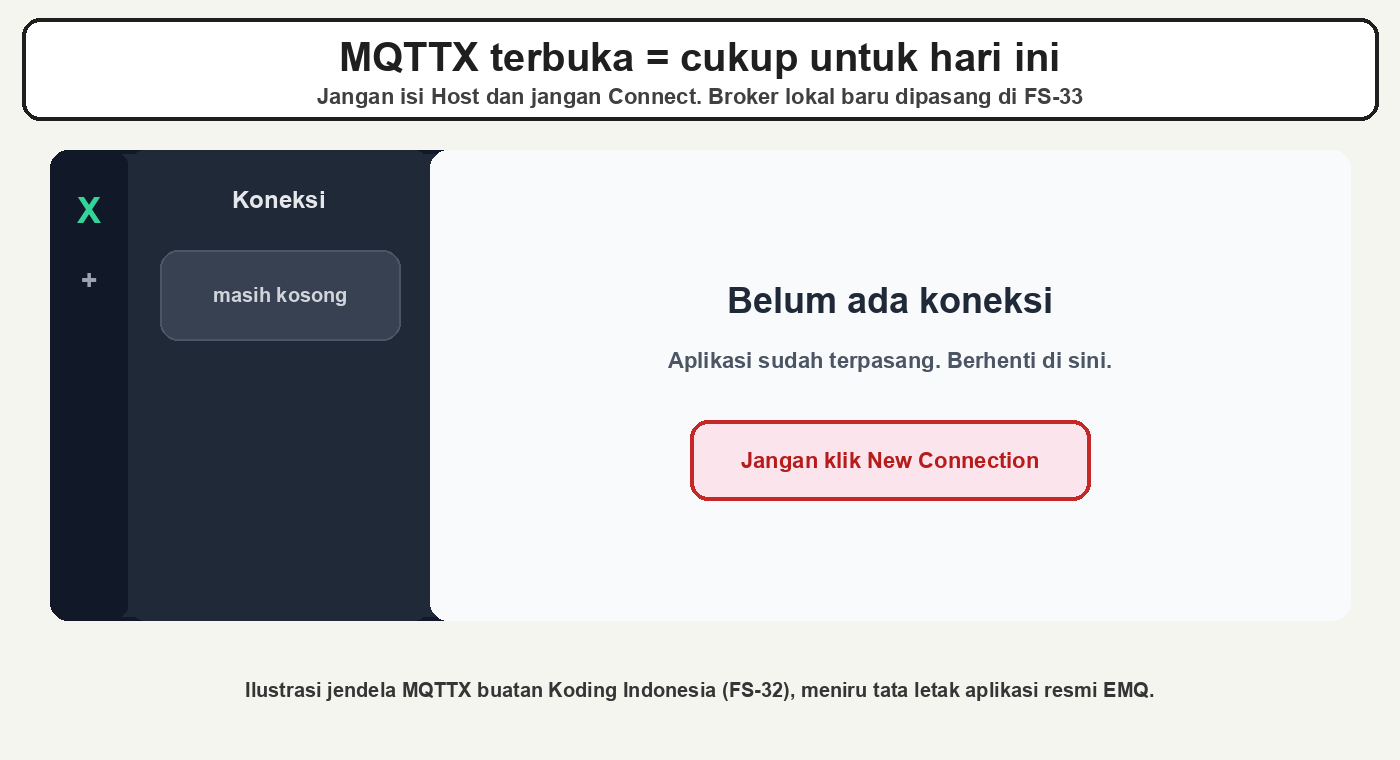
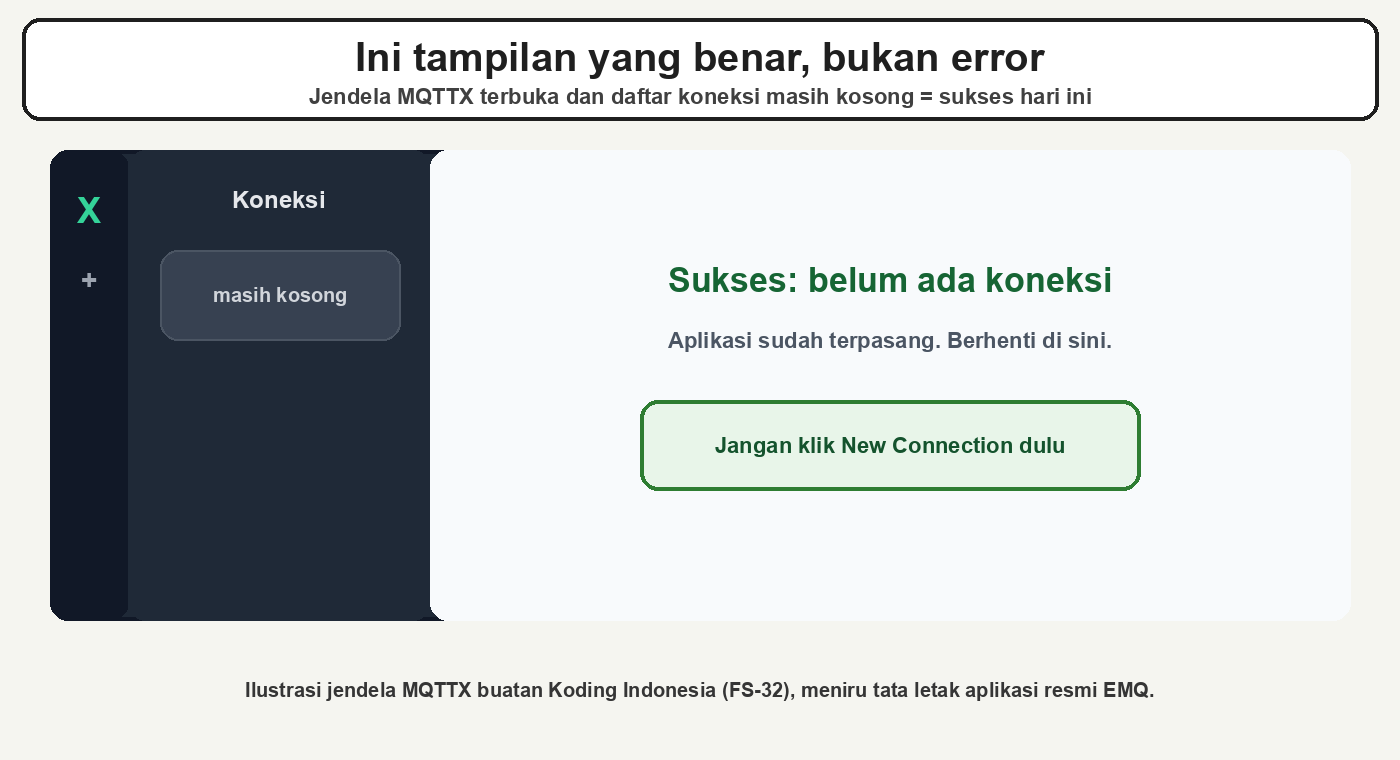
fix(fsiot): clarify FS-32 images for beginners
MQTTX empty state is labelled as success, Commons labels are in Indonesian, and the official downloads page is cited so first-time readers are not looking at an error screen or Portuguese-only diagram.

Changed region(s): [[0.215, 0.0303, 0.7986, 0.1513], [0.4607, 0.5145, 0.8293, 0.6658], [0.4607, 0.3329, 0.7986, 0.4842]]

diff --git a/database/seeders/Article102Seeder.php b/database/seeders/Article102Seeder.php
@@ -55,10 +55,11 @@ class Article102Seeder extends Seeder
             if (is_file($source)) {
                 $destination = "articles/covers/fs32-cover-mqtt.{$extension}";
                 Storage::disk('public')->put($destination, file_get_contents($source));
-                $article->update(['cover_image' => $destination]);
-                break;
             }
         }
+        $article->update([
+            'cover_image' => 'https://kodingindonesia.com/images/fsiot/fs32-cover-mqtt.webp',
+        ]);
     }
 
     private function figure(string $file, string $alt, string $caption): string
@@ -88,9 +89,10 @@ class Article102Seeder extends Seeder
     private function body(): string
     {
         $tools = $this->figure('fs32-tools-order.png', 'Urutan tools: browser, unduh MQTTX, pasang, jangan connect', '<strong>Urutan meja kerja:</strong> pahami konsep di browser → unduh MQTTX dari situs resmi → pasang tanpa terminal → berhenti. Pesan yang sebenarnya baru dikirim saat broker lokal FS-33 siap. Diagram buatan Koding Indonesia (FS-32).');
-        $mqttx = $this->figure('fs32-mqttx-empty.png', 'Ilustrasi jendela MQTTX yang baru dibuka tanpa koneksi', '<strong>Bukti sukses hari ini:</strong> jendela MQTTX terbuka dan daftar koneksi masih kosong. Jangan klik <em>New Connection</em> dan jangan isi Host. Ilustrasi buatan Koding Indonesia (FS-32), meniru tata letak aplikasi resmi <a href="https://mqttx.app/" target="_blank" rel="noopener noreferrer">MQTTX oleh EMQ</a> (Apache License 2.0). Screenshot resmi tidak dipakai utuh karena menampilkan broker publik.');
+        $downloads = $this->figure('fs32-mqttx-downloads.png', 'Halaman unduhan resmi MQTTX Desktop di mqttx.app/downloads', '<strong>Ini halaman yang harus dibuka.</strong> Pilih sistem operasimu, lalu unduh <strong>MQTTX Desktop</strong> (berkas <code>.exe</code> di Windows). Jangan pilih MQTTX CLI, MQTTX Web, atau tautan broker publik di menu situs. Sumber: <a href="https://mqttx.app/downloads" target="_blank" rel="noopener noreferrer">mqttx.app/downloads</a> — EMQ Technologies. Tangkapan layar 13 Agustus 2026. Aplikasi MQTTX berlisensi Apache License 2.0.');
+        $mqttx = $this->figure('fs32-mqttx-empty.png', 'Ilustrasi jendela MQTTX yang baru dibuka tanpa koneksi — tampilan sukses, bukan error', '<strong>Ini tampilan yang benar, bukan error.</strong> Jendela MQTTX terbuka dan daftar koneksi masih kosong = sukses hari ini. Jangan klik <em>New Connection</em> dan jangan isi Host. Ilustrasi buatan Koding Indonesia (FS-32), meniru tata letak aplikasi resmi <a href="https://mqttx.app/" target="_blank" rel="noopener noreferrer">MQTTX oleh EMQ</a> (Apache License 2.0). Screenshot jendela resmi tidak dipakai utuh karena menampilkan broker publik.');
         $roles = $this->figure('fs32-broker-roles.png', 'Peran klien dan broker MQTT', '<strong>Gambar utama — peran MQTT.</strong> ESP32 dan MQTTX adalah klien (<em>client</em>). Broker menjadi perantara pesan. MQTT adalah protokol klien-server dengan pola publish/subscribe. <a href="https://www.oasis-open.org/standard/mqtt-v5-0-os/" target="_blank" rel="noopener noreferrer">Standar MQTT OASIS</a>. Diagram buatan Koding Indonesia (FS-32).');
-        $commons = $this->figure('fs32-mqtt-architecture-cite.png', 'Arsitektur MQTT dari Wikimedia Commons dengan terjemahan Indonesia', '<strong>Gambar pembanding.</strong> Alur yang sama: pengirim → broker → penerima. Label asli berbahasa Portugis; pita bawah adalah terjemahan Indonesia. Ikon awan berarti server perantara, bukan wajib memakai internet publik. Sumber: <a href="https://commons.wikimedia.org/wiki/File:Arquitetura_MQTT_exemplo.png" target="_blank" rel="noopener noreferrer">Arquitetura MQTT exemplo.png</a> karya Ana beloti, Wikimedia Commons, <a href="https://creativecommons.org/licenses/by-sa/4.0/" target="_blank" rel="noopener noreferrer">CC BY-SA 4.0</a>. Diolah Koding Indonesia: pita terjemahan ditambahkan.');
+        $commons = $this->figure('fs32-mqtt-architecture-cite.png', 'Arsitektur MQTT dari Wikimedia Commons dengan label Indonesia', '<strong>Gambar pembanding.</strong> Alur yang sama: pengirim → broker → penerima. Label Indonesia ditambahkan di atas teks Portugis asli agar mudah dibaca. Ikon mobil dan awan berasal dari sumber; lab kita memakai ESP32, MQTTX, dan Mosquitto lokal — bukan internet publik. Sumber: <a href="https://commons.wikimedia.org/wiki/File:Arquitetura_MQTT_exemplo.png" target="_blank" rel="noopener noreferrer">Arquitetura MQTT exemplo.png</a> karya Ana beloti, Wikimedia Commons, <a href="https://creativecommons.org/licenses/by-sa/4.0/" target="_blank" rel="noopener noreferrer">CC BY-SA 4.0</a>. Diolah Koding Indonesia: label Indonesia ditambahkan.');
         $topic = $this->figure('fs32-topic-address.png', 'Empat bagian alamat topic MQTT', '<strong>Topic seperti alamat loker.</strong> Pengirim dan penerima harus menulis teks yang sama persis. Huruf besar dan huruf kecil berbeda. Diagram buatan Koding Indonesia (FS-32).');
         $flow = $this->figure('fs32-pub-sub-flow.png', 'Alur publish dan subscribe melalui broker', '<strong>Skema bantu — satu ke banyak.</strong> Publisher tidak perlu tahu siapa yang menerima; broker meneruskan pesan kepada klien yang berlangganan topic tersebut. Kotak <em>klien lain</em> hanya pengingat bahwa nanti bisa ada penerima tambahan; hari ini tidak perlu. Diagram buatan Koding Indonesia (FS-32).');
         $install = $this->stepsCard([
@@ -129,7 +131,7 @@ class Article102Seeder extends Seeder
 
 <h2>Persiapan — buka tool yang benar dulu</h2>
 HTML
-            .$tools.$install.$mqttx.<<<'HTML'
+            .$tools.$install.$downloads.$mqttx.<<<'HTML'
 <p><strong>Jika pemasangan belum selesai:</strong> tetap baca konsep sampai akhir. FS-33 baru dikerjakan setelah MQTTX siap, karena di sana kita akan melihat pesan yang sebenarnya.</p>
 <p><strong>Tips ponsel:</strong> jika diagram terasa kecil, gunakan fitur perbesar pada browser atau layar. Gambar tidak perlu diketuk sampai memenuhi layar agar teks di sekitarnya tetap terbaca.</p>
 
@@ -138,7 +140,7 @@ HTML
             .$roles.$commons.<<<'HTML'
 <ul>
 <li><strong>Broker:</strong> server perantara yang menerima pesan dan meneruskannya.</li>
-<li><strong>Klien:</strong> perangkat atau aplikasi yang tersambung ke broker. ESP32, MQTTX, dan papan pantau nanti dapat menjadi klien.</li>
+<li><strong>Klien:</strong> perangkat atau aplikasi yang tersambung ke broker. ESP32, MQTTX, dan layar pemantau nanti dapat menjadi klien.</li>
 <li><strong>Pesan:</strong> isi yang dikirim, misalnya <code>28.4</code> atau teks <code>ON</code>.</li>
 </ul>
 <p>Klien boleh melakukan dua peran sekaligus: mengirim suhu dan juga menerima perintah. Namun untuk langkah pertama, kita pisahkan dulu agar alurnya mudah dilihat. ESP32 belum dinyalakan hari ini.</p>
@@ -206,6 +208,7 @@ HTML
 <ul>
 <li><a href="https://docs.oasis-open.org/mqtt/mqtt/v5.0/mqtt-v5.0.html" target="_blank" rel="noopener noreferrer">OASIS — MQTT Version 5.0</a></li>
 <li><a href="https://mqttx.app/docs" target="_blank" rel="noopener noreferrer">Dokumentasi resmi MQTTX</a> · <a href="https://mqttx.app/downloads" target="_blank" rel="noopener noreferrer">halaman unduhan MQTTX</a> · aplikasi oleh EMQ, Apache License 2.0</li>
+<li>Tangkapan layar halaman unduhan MQTTX — <a href="https://mqttx.app/downloads" target="_blank" rel="noopener noreferrer">mqttx.app/downloads</a>, EMQ Technologies, 13 Agustus 2026</li>
 <li><a href="https://commons.wikimedia.org/wiki/File:Arquitetura_MQTT_exemplo.png" target="_blank" rel="noopener noreferrer">Arquitetura MQTT exemplo.png</a> — Ana beloti, Wikimedia Commons, CC BY-SA 4.0</li>
 <li>Diagram urutan tools, peran, topic, alur, dan ilustrasi jendela MQTTX — Koding Indonesia (FS-32)</li>
 </ul>
@@ -218,9 +221,10 @@ HTML;
     private function bodyEn(): string
     {
         $tools = $this->figure('fs32-tools-order.png', 'Tool order: browser, download MQTTX, install, do not connect', '<strong>Desk order:</strong> learn the concept in a browser → download MQTTX from the official site → install without a terminal → stop. The first real message is sent only when the local broker in FS-33 is ready. Diagram by Koding Indonesia (FS-32).');
-        $mqttx = $this->figure('fs32-mqttx-empty.png', 'Illustration of a newly opened MQTTX window with no connection', '<strong>Today’s success check:</strong> MQTTX is open and the connection list is still empty. Do not click <em>New Connection</em> and do not fill in Host. Illustration by Koding Indonesia (FS-32), modelled on the official <a href="https://mqttx.app/" target="_blank" rel="noopener noreferrer">MQTTX by EMQ</a> layout (Apache License 2.0). The official screenshot is not used as-is because it shows a public broker.');
+        $downloads = $this->figure('fs32-mqttx-downloads.png', 'Official MQTTX Desktop download page at mqttx.app/downloads', '<strong>This is the page to open.</strong> Choose your operating system, then download <strong>MQTTX Desktop</strong> (the <code>.exe</code> file on Windows). Do not choose MQTTX CLI, MQTTX Web, or a public-broker link in the site menu. Source: <a href="https://mqttx.app/downloads" target="_blank" rel="noopener noreferrer">mqttx.app/downloads</a> — EMQ Technologies. Screenshot taken 13 August 2026. MQTTX is licensed under Apache License 2.0.');
+        $mqttx = $this->figure('fs32-mqttx-empty.png', 'Illustration of a newly opened MQTTX window with no connection — a success state, not an error', '<strong>This is the correct view, not an error.</strong> MQTTX is open and the connection list is still empty = success today. Do not click <em>New Connection</em> and do not fill in Host. Illustration by Koding Indonesia (FS-32), modelled on the official <a href="https://mqttx.app/" target="_blank" rel="noopener noreferrer">MQTTX by EMQ</a> layout (Apache License 2.0). The official window screenshot is not used as-is because it shows a public broker.');
         $roles = $this->figure('fs32-broker-roles.png', 'MQTT client and broker roles', '<strong>Main figure — MQTT roles.</strong> ESP32 and MQTTX are clients. The broker is the message middleman. MQTT is a client-server publish/subscribe protocol. <a href="https://www.oasis-open.org/standard/mqtt-v5-0-os/" target="_blank" rel="noopener noreferrer">OASIS MQTT standard</a>. Diagram by Koding Indonesia (FS-32).');
-        $commons = $this->figure('fs32-mqtt-architecture-cite.png', 'MQTT architecture from Wikimedia Commons with an Indonesian translation bar', '<strong>Comparison figure.</strong> Same flow: sender → broker → receiver. Original labels are in Portuguese; the bottom bar is an Indonesian translation. The cloud icon means an intermediary server, not a requirement to use the public internet. Source: <a href="https://commons.wikimedia.org/wiki/File:Arquitetura_MQTT_exemplo.png" target="_blank" rel="noopener noreferrer">Arquitetura MQTT exemplo.png</a> by Ana beloti, Wikimedia Commons, <a href="https://creativecommons.org/licenses/by-sa/4.0/" target="_blank" rel="noopener noreferrer">CC BY-SA 4.0</a>. Adapted by Koding Indonesia: translation bar added.');
+        $commons = $this->figure('fs32-mqtt-architecture-cite.png', 'MQTT architecture from Wikimedia Commons with Indonesian labels', '<strong>Comparison figure.</strong> Same flow: sender → broker → receiver. Indonesian labels are drawn over the original Portuguese text so beginners can read it. The car and cloud icons come from the source; our lab uses ESP32, MQTTX, and local Mosquitto — not the public internet. Source: <a href="https://commons.wikimedia.org/wiki/File:Arquitetura_MQTT_exemplo.png" target="_blank" rel="noopener noreferrer">Arquitetura MQTT exemplo.png</a> by Ana beloti, Wikimedia Commons, <a href="https://creativecommons.org/licenses/by-sa/4.0/" target="_blank" rel="noopener noreferrer">CC BY-SA 4.0</a>. Adapted by Koding Indonesia: Indonesian labels added.');
         $topic = $this->figure('fs32-topic-address.png', 'Four parts of an MQTT topic address', '<strong>A topic is like a mailbox address.</strong> Publishers and subscribers must type exactly the same text. Uppercase and lowercase letters differ. Diagram by Koding Indonesia (FS-32).');
         $flow = $this->figure('fs32-pub-sub-flow.png', 'Publish and subscribe through a broker', '<strong>Helper schematic — one to many.</strong> A publisher does not need to know the listeners; the broker forwards a message to clients subscribed to that topic. The <em>other client</em> box is only a reminder that more receivers can join later; not today. Diagram by Koding Indonesia (FS-32).');
         $install = $this->stepsCard([
@@ -259,7 +263,7 @@ HTML;
 
 <h2>Preparation — open the right tool first</h2>
 HTML
-            .$tools.$install.$mqttx.<<<'HTML'
+            .$tools.$install.$downloads.$mqttx.<<<'HTML'
 <p><strong>If the app is not installed yet:</strong> still finish the concept. FS-33 starts only after MQTTX is ready, because that is where real messages appear.</p>
 <p><strong>Phone tip:</strong> if a diagram feels small, use the browser or screen zoom. You do not need to tap the image to fill the screen; nearby text should stay readable.</p>
 
@@ -336,6 +340,7 @@ HTML
 <ul>
 <li><a href="https://docs.oasis-open.org/mqtt/mqtt/v5.0/mqtt-v5.0.html" target="_blank" rel="noopener noreferrer">OASIS — MQTT Version 5.0</a></li>
 <li><a href="https://mqttx.app/docs" target="_blank" rel="noopener noreferrer">Official MQTTX documentation</a> · <a href="https://mqttx.app/downloads" target="_blank" rel="noopener noreferrer">MQTTX downloads</a> · app by EMQ, Apache License 2.0</li>
+<li>Screenshot of the MQTTX download page — <a href="https://mqttx.app/downloads" target="_blank" rel="noopener noreferrer">mqttx.app/downloads</a>, EMQ Technologies, 13 August 2026</li>
 <li><a href="https://commons.wikimedia.org/wiki/File:Arquitetura_MQTT_exemplo.png" target="_blank" rel="noopener noreferrer">Arquitetura MQTT exemplo.png</a> — Ana beloti, Wikimedia Commons, CC BY-SA 4.0</li>
 <li>Tool-order, roles, topic, flow, and MQTTX-window diagrams — Koding Indonesia (FS-32)</li>
 </ul>

diff --git a/scripts/gen-fs32-assets.py b/scripts/gen-fs32-assets.py
@@ -28,6 +28,17 @@ def header(draw, width, title, subtitle):
     text(draw, width / 2, 96, subtitle, 22, '#404040')
 
 
+def chip(draw, cx, cy, label, fill='#ffffff', outline='#1565c0', text_fill='#0d47a1', size=22):
+    fnt = font(size)
+    bbox = draw.textbbox((0, 0), label, font=fnt)
+    tw, th = bbox[2] - bbox[0], bbox[3] - bbox[1]
+    pad_x, pad_y = 16, 10
+    left, top = cx - tw / 2 - pad_x, cy - th / 2 - pad_y
+    right, bottom = cx + tw / 2 + pad_x, cy + th / 2 + pad_y
+    box(draw, (left, top, right, bottom), fill, outline, 3)
+    draw.text((cx, cy), label, font=fnt, fill=text_fill, anchor='mm')
+
+
 def arrow(draw, start, end, fill, width=8, head=22):
     draw.line([start, end], fill=fill, width=width)
     ang = atan2(end[1] - start[1], end[0] - start[0])
@@ -141,7 +152,7 @@ save(image, 'fs32-tools-order.png')
 # MQTTX empty-window illustration (do not reuse official preview: it shows a public broker)
 image = Image.new('RGB', (1400, 760), '#f5f5f0')
 draw = ImageDraw.Draw(image)
-header(draw, 1400, 'MQTTX terbuka = cukup untuk hari ini', 'Jangan isi Host dan jangan Connect. Broker lokal baru dipasang di FS-33')
+header(draw, 1400, 'Ini tampilan yang benar, bukan error', 'Jendela MQTTX terbuka dan daftar koneksi masih kosong = sukses hari ini')
 box(draw, (50, 150, 1350, 620), '#1f2937', '#111827', 4)
 box(draw, (50, 150, 128, 620), '#111827', '#111827', 0)
 text(draw, 89, 210, 'X', 36, '#34d399')
@@ -151,22 +162,58 @@ text(draw, 279, 200, 'Koneksi', 24, '#e5e7eb')
 box(draw, (160, 250, 400, 340), '#374151', '#4b5563', 2)
 text(draw, 280, 295, 'masih kosong', 20, '#d1d5db')
 box(draw, (430, 150, 1350, 620), '#f8fafc', '#e5e7eb', 0)
-text(draw, 890, 300, 'Belum ada koneksi', 36, '#1f2937')
-text(draw, 890, 360, 'Aplikasi sudah terpasang. Berhenti di sini.', 22, '#4b5563')
-box(draw, (690, 420, 1090, 500), '#fce4ec', '#c62828', 4)
-text(draw, 890, 460, 'Jangan klik New Connection', 22, '#b71c1c')
+text(draw, 890, 280, 'Sukses: belum ada koneksi', 34, '#166534')
+text(draw, 890, 340, 'Aplikasi sudah terpasang. Berhenti di sini.', 22, '#4b5563')
+box(draw, (640, 400, 1140, 490), '#e8f5e9', '#2e7d32', 4)
+text(draw, 890, 445, 'Jangan klik New Connection dulu', 22, '#14532d')
 text(draw, 700, 690, 'Ilustrasi jendela MQTTX buatan Koding Indonesia (FS-32), meniru tata letak aplikasi resmi EMQ.', 20, '#353535')
 save(image, 'fs32-mqttx-empty.png')
 
-# Commons architecture + Indonesian legend bar (CC BY-SA 4.0 derivative)
+# Official MQTTX downloads page (EMQ) + Indonesian callouts
+raw_candidates = [
+    Path(r'c:\Users\anton\AppData\Local\Temp\cursor\screenshots\mqttx-downloads-raw.png'),
+    OUT / 'fs32-mqttx-downloads-raw.png',
+]
+raw_path = next((path for path in raw_candidates if path.is_file()), None)
+if raw_path is None:
+    raise FileNotFoundError('MQTTX downloads screenshot not found')
+raw = Image.open(raw_path).convert('RGB')
+if raw_path != OUT / 'fs32-mqttx-downloads-raw.png':
+    raw.save(OUT / 'fs32-mqttx-downloads-raw.png')
+target_w = 1400
+raw = raw.resize((target_w, int(raw.height * target_w / raw.width)), Image.Resampling.LANCZOS)
+banner_h, foot_h = 118, 100
+download = Image.new('RGB', (target_w, raw.height + banner_h + foot_h), '#f5f5f0')
+download.paste(raw, (0, banner_h))
+dwn = ImageDraw.Draw(download)
+box(dwn, (22, 16, target_w - 22, banner_h - 10), '#e8f5e9', '#2e7d32')
+text(dwn, target_w / 2, 48, 'Buka halaman ini: mqttx.app/downloads', 28, '#14532d')
+text(dwn, target_w / 2, 86, 'Pilih MQTTX Desktop. Jangan MQTTX CLI, MQTTX Web, atau broker publik.', 20, '#1b4332')
+box(dwn, (22, banner_h + raw.height + 10, target_w - 22, banner_h + raw.height + foot_h - 12), '#ffffff')
+text(dwn, target_w / 2, banner_h + raw.height + 42, 'Sumber: https://mqttx.app/downloads — EMQ Technologies. Tangkapan layar 13 Agustus 2026.', 18)
+text(dwn, target_w / 2, banner_h + raw.height + 74, 'Aplikasi MQTTX berlisensi Apache License 2.0. Jangan klik tautan broker publik di menu situs.', 18, '#353535')
+download.save(OUT / 'fs32-mqttx-downloads.png', optimize=True)
+print('fs32-mqttx-downloads.png', download.size)
+
+# Commons architecture + Indonesian labels covering Portuguese text (CC BY-SA 4.0 derivative)
 source = Image.open(OUT / 'fs32-mqtt-architecture-commons.png').convert('RGB')
 source = source.resize((1400, int(source.height * 1400 / source.width)), Image.Resampling.LANCZOS)
+w, h = source.size
+overlay = ImageDraw.Draw(source)
+# Cover original Portuguese title/role labels, then write Indonesian.
+chip(overlay, w * 0.22, h * 0.11, 'Pengirim (klien)', '#fff8e1', '#f9a825', '#7c4a00', 22)
+chip(overlay, w * 0.50, h * 0.07, 'Arsitektur MQTT', '#e3f2fd', '#1565c0', '#0d47a1', 24)
+chip(overlay, w * 0.34, h * 0.46, 'publish: kirim ke topic', '#fff8e1', '#f9a825', '#7c4a00', 20)
+chip(overlay, w * 0.50, h * 0.84, 'Broker = perantara', '#e3f2fd', '#1565c0', '#0d47a1', 22)
+chip(overlay, w * 0.78, h * 0.30, 'subscribe: minta salinan', '#e8f5e9', '#2e7d32', '#14532d', 20)
+chip(overlay, w * 0.78, h * 0.52, 'broker meneruskan pesan', '#e8f5e9', '#2e7d32', '#14532d', 20)
+chip(overlay, w * 0.82, h * 0.11, 'Penerima (klien)', '#e8f5e9', '#2e7d32', '#14532d', 22)
 legend_h = 150
-cited = Image.new('RGB', (source.width, source.height + legend_h), '#f5f5f0')
+cited = Image.new('RGB', (w, h + legend_h), '#f5f5f0')
 cited.paste(source, (0, 0))
 legend = ImageDraw.Draw(cited)
-box(legend, (18, source.height + 12, source.width - 18, source.height + legend_h - 12), '#ffffff')
-text(legend, source.width / 2, source.height + 48, 'Terjemahan: Publicador = pengirim · MQTT Broker = perantara · Subscritor = penerima · tópico = topic', 19)
-text(legend, source.width / 2, source.height + 90, 'Ikon awan = server perantara, bukan wajib internet publik. Lab kita lebih sederhana.', 18, '#b91c1c')
+box(legend, (18, h + 12, w - 18, h + legend_h - 12), '#ffffff')
+text(legend, w / 2, h + 48, 'Label Indonesia ditambahkan di atas teks Portugis asli. Alur tetap: pengirim → broker → penerima.', 19)
+text(legend, w / 2, h + 90, 'Ikon mobil dan awan berasal dari sumber asli. Lab kita memakai ESP32, MQTTX, dan Mosquitto lokal — bukan internet publik.', 17, '#353535')
 cited.save(OUT / 'fs32-mqtt-architecture-cite.png', optimize=True)
 print('fs32-mqtt-architecture-cite.png', cited.size)

diff --git a/scripts/audit-article102.php b/scripts/audit-article102.php
@@ -45,7 +45,7 @@ check('route exists', str_contains($routes, 'seed-article-102-draft'));
 check('deploy method exists', str_contains($controller, 'seedArticle102Draft'));
 check('workflow early seed exists', str_contains($workflow, 'seed-article-102-draft') && str_contains($workflow, 'id: curl102'));
 check('revision sync runs before historical uploads', ($priority = strpos($workflow, 'id: curl102_priority')) !== false && $priority < strpos($workflow, 'id: curl98'));
-check('new FS-32 assets are in the priority upload', str_contains($workflow, 'fs32-mqttx-empty.png') && str_contains($workflow, 'fs32-mqtt-architecture-cite.png'));
+check('new FS-32 assets are in the priority upload', str_contains($workflow, 'fs32-mqttx-empty.png') && str_contains($workflow, 'fs32-mqtt-architecture-cite.png') && str_contains($workflow, 'fs32-mqttx-downloads.png'));
 check('ID self reference', str_contains($body, '#102 (ini)'));
 check('EN self reference', str_contains($bodyEn, '#102 (this article)'));
 check('friendly opening labels', str_contains($body, 'Intinya:') && str_contains($body, 'Analogi:') && str_contains($bodyEn, 'In short:') && str_contains($bodyEn, 'Analogy:'));
@@ -59,11 +59,14 @@ check('public broker is defined in plain language', str_contains($body, 'broker 
 check('MQTTX official source cited', str_contains($body, 'mqttx.app/docs') && str_contains($bodyEn, 'mqttx.app/docs'));
 check('OASIS primary source cited', str_contains($body, 'docs.oasis-open.org/mqtt') && str_contains($bodyEn, 'docs.oasis-open.org/mqtt'));
 check('Commons architecture is cited', str_contains($body, 'commons.wikimedia.org/wiki/File:Arquitetura_MQTT_exemplo.png') && str_contains($body, 'CC BY-SA 4.0') && str_contains($bodyEn, 'Ana beloti'));
-check('official MQTTX screenshot is not used as-is', str_contains($body, 'Screenshot resmi tidak dipakai utuh') && str_contains($bodyEn, 'official screenshot is not used as-is'));
+check('official MQTTX screenshot is not used as-is', str_contains($body, 'Screenshot jendela resmi tidak dipakai utuh') && str_contains($bodyEn, 'official window screenshot is not used as-is'));
+check('MQTTX empty state is labelled as success not error', str_contains($body, 'Ini tampilan yang benar, bukan error') && str_contains($bodyEn, 'This is the correct view, not an error'));
+check('official downloads screenshot is cited', str_contains($body, 'fs32-mqttx-downloads.png') && str_contains($body, 'Tangkapan layar 13 Agustus 2026') && str_contains($bodyEn, 'Screenshot taken 13 August 2026'));
+check('cover uses a public absolute URL', str_contains($source, "https://kodingindonesia.com/images/fsiot/fs32-cover-mqtt.webp"));
 check('H2 parity', substr_count($body, '<h2') === substr_count($bodyEn, '<h2') && substr_count($body, '<h2') >= 12);
 check('glossary heading exists in both languages', str_contains($body, 'Istilah yang dipakai hari ini') && str_contains($bodyEn, 'Terms used today'));
 check('FAQ and sources headings exist', str_contains($body, 'Pertanyaan yang sering muncul') && str_contains($body, '>Sumber<') && str_contains($bodyEn, 'Frequently asked questions') && str_contains($bodyEn, '>Sources<'));
-check('six image figures in both languages', substr_count($body, '/images/fsiot/fs32-') === 6 && substr_count($bodyEn, '/images/fsiot/fs32-') === 6);
+check('seven image figures in both languages', substr_count($body, '/images/fsiot/fs32-') === 7 && substr_count($bodyEn, '/images/fsiot/fs32-') === 7);
 check('Koding Indonesia diagrams attributed', substr_count($body, 'Diagram buatan Koding Indonesia (FS-32)') === 4 && substr_count($bodyEn, 'Diagram by Koding Indonesia (FS-32)') === 4);
 check('topic four-part explanation', str_contains($body, 'organisasi / jalur belajar / tempat / jenis pesan') && str_contains($bodyEn, 'organisation / learning path / place / message type'));
 check('topic case warning in both languages', str_contains($body, 'telemetry</code> berbeda') && str_contains($bodyEn, 'lowercase names'));
@@ -89,6 +92,7 @@ foreach ([
     'fs32-topic-address.png',
     'fs32-pub-sub-flow.png',
     'fs32-mqttx-empty.png',
+    'fs32-mqttx-downloads.png',
     'fs32-mqtt-architecture-cite.png',
 ] as $asset) {
     $path = $root.'/public/images/fsiot/'.$asset;
